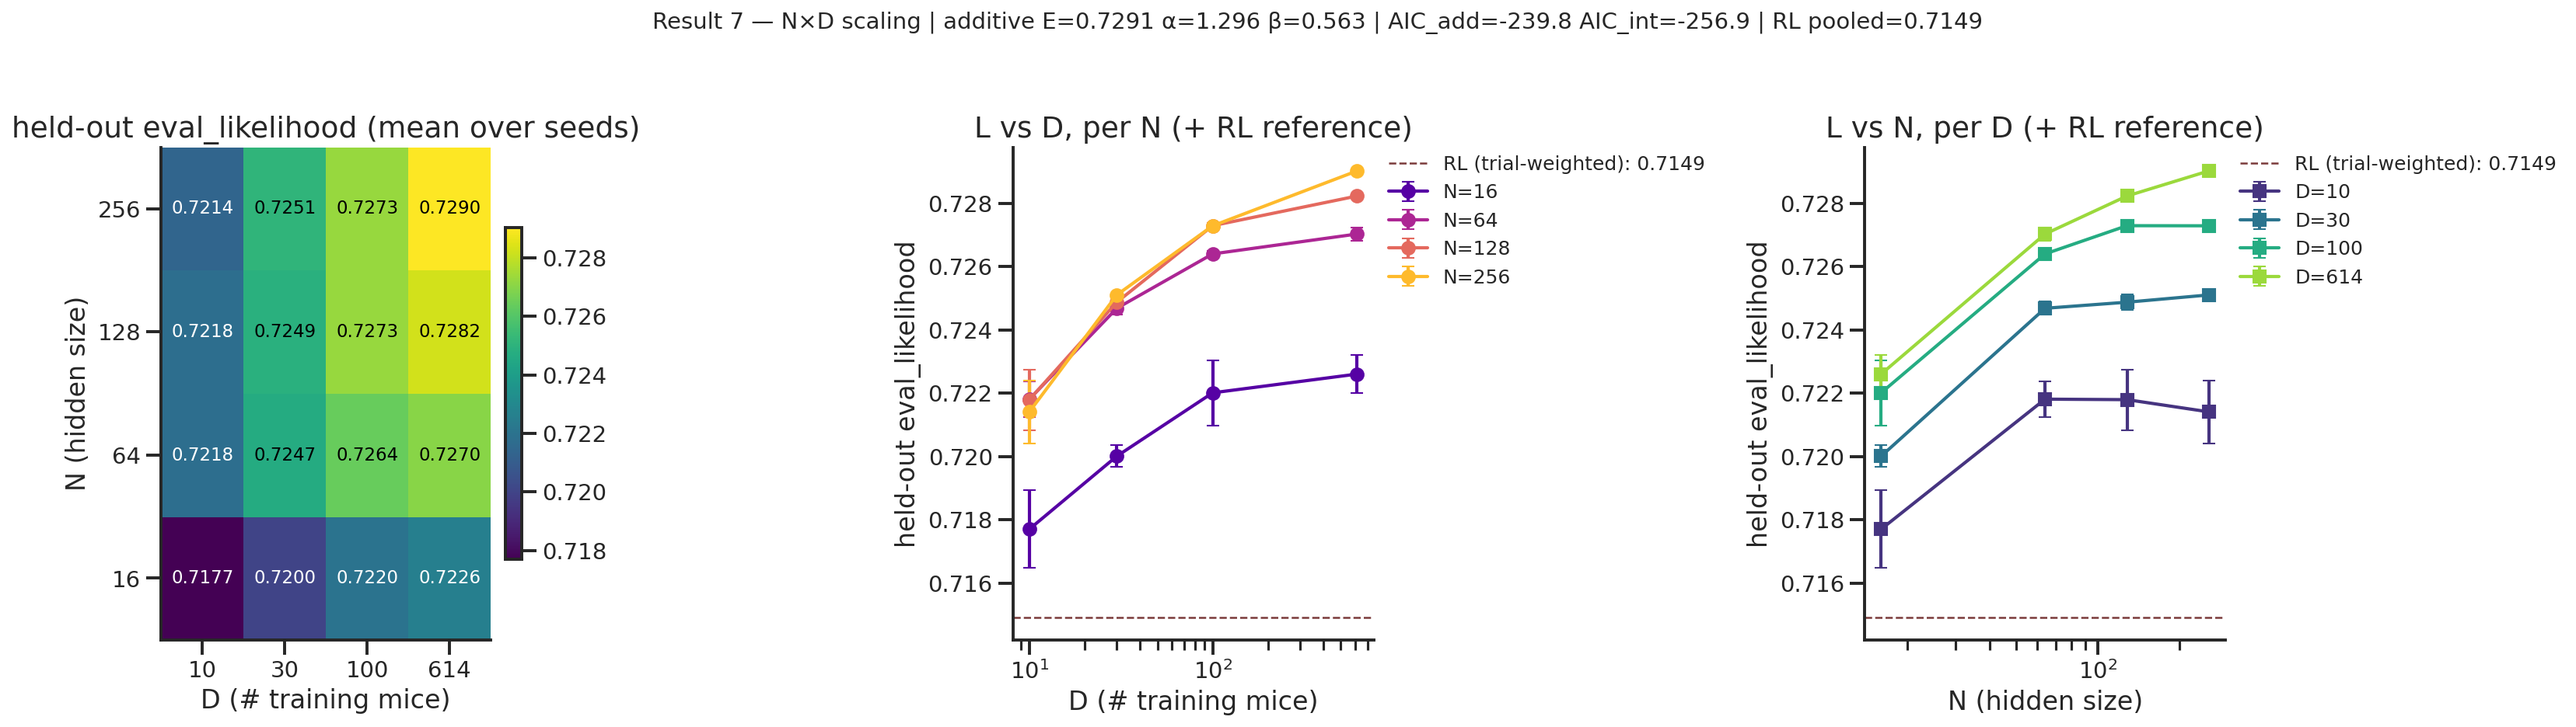
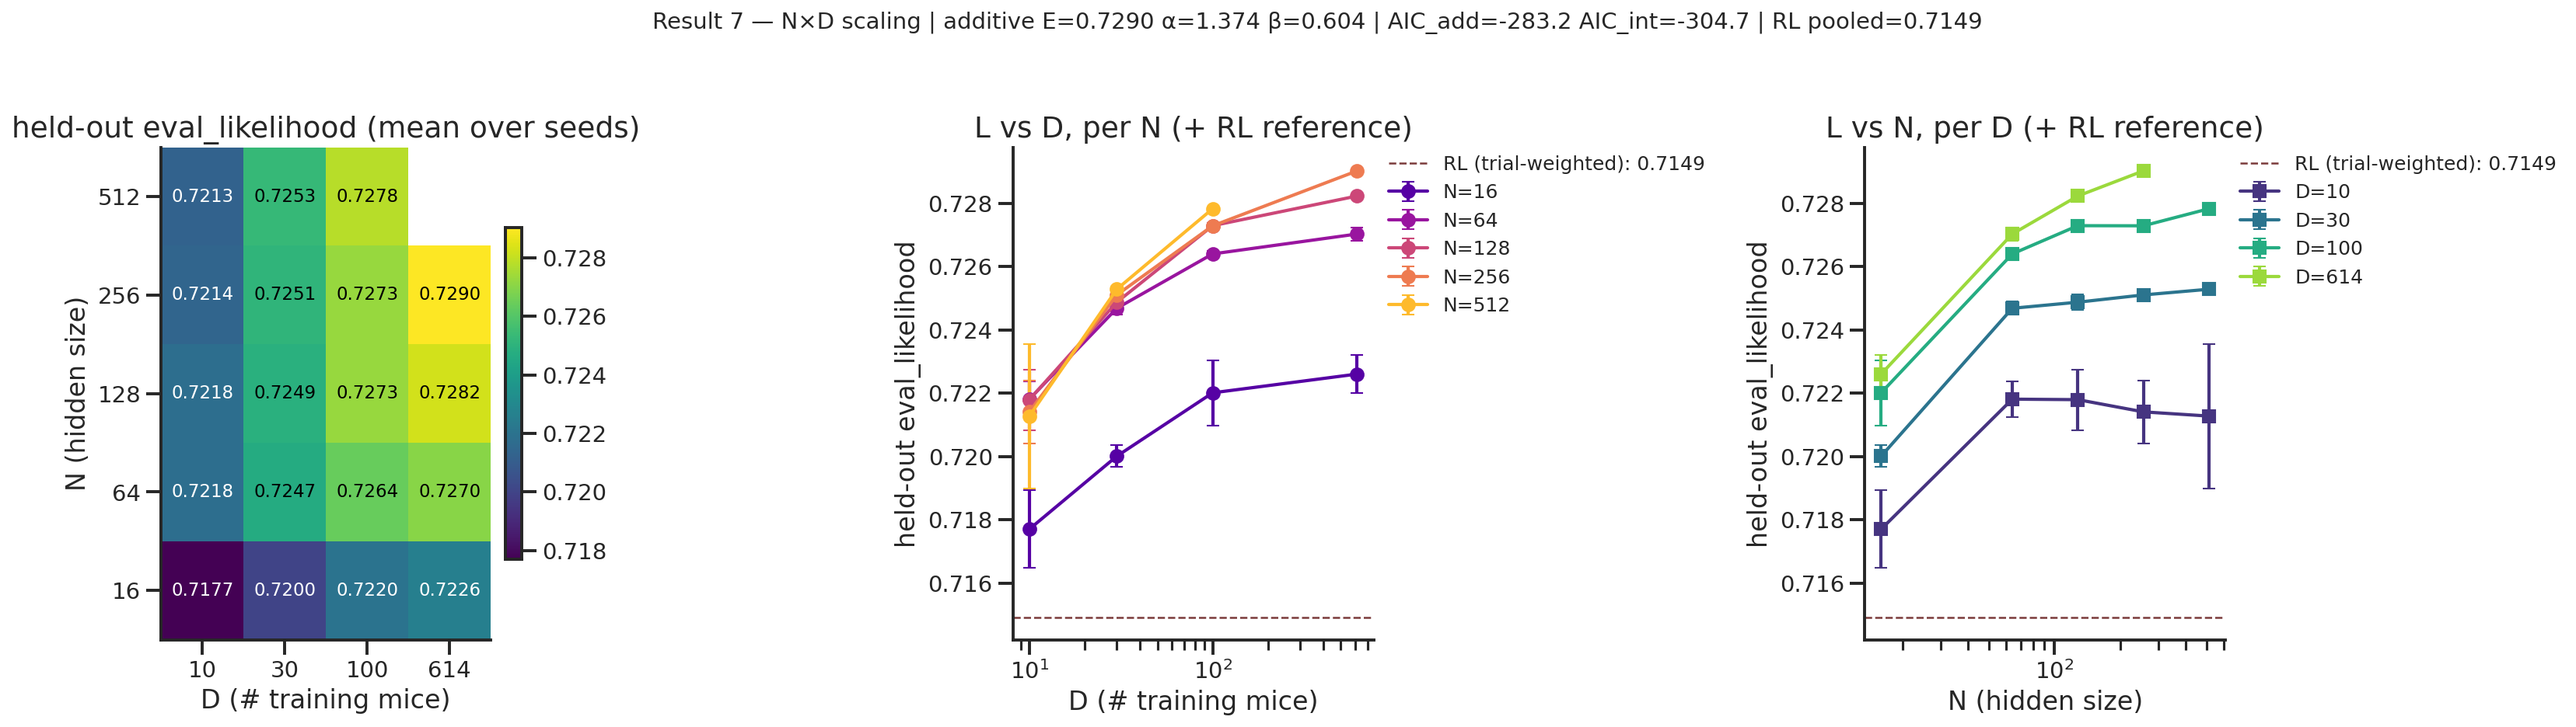
feat(study-01): regenerate r1/r7 analysis outputs with H=512 wired in
Regenerated on an HPC compute node (n238, aind_debug, job 25527218 -- never
the login node) via the full producer chain: build_report.py -> nxd_scaling.py
-> rl_baseline.py -> update_final_report_nxd.py.

- nxd_scaling.json / fig_nxd_scaling.png / nxd_scaling_verdict.md: r7 N×D grid
  now spans N in {16,64,128,256,512}. H=512/D=614 correctly renders as a
  genuine gap (blank heatmap cell, "n/a (no D=614)" in the table) rather than
  a crash or a faked value -- confirms the update_final_report_nxd.py guard
  fix (850879a) works end to end.
- rl_baseline.json / rl_baseline_verdict.md / fig_rl_paired.png /
  fig_scaling_v1_v2.png / fig_zeroshot_vs_d.png / fig_fewshot_curve.png:
  rl_baseline.py re-run, carries the Result-1 figure rework from this branch's
  earlier commits (3-model RL reference, per-seed dots, house colors).
- report_data.json: r1 base data, byte-identical modulo _meta (build_report.py
  output is deterministic from the same committed runs).
- reports/r7-nxd-joint-scaling-grid.md: regenerated BEGIN/END block (ragged
  grid renders correctly) + hand-fixed frontmatter `wandb_groups` to include
  nxd-h512@20260720-195322 (update_final_report_nxd.py only rewrites the
  marked body, not frontmatter -- this was stale after the producer ran).

_meta confirms provenance: dispatcher_git_sha 850879a4cd8b (this branch's tip
at regen time), wrapper_git_sha 870e6ddd56c0.

diff --git a/studies/01-gru-scaling-law/analysis/nxd_scaling_verdict.md b/studies/01-gru-scaling-law/analysis/nxd_scaling_verdict.md
@@ -2,7 +2,7 @@
 
 > Independently replicated: two agents ran this scan separately and obtained identical grid values and additive-fit parameters (E=0.729, alpha=1.19, beta=0.67) before the D=30 gap-fill. This merged analysis combines the original grid, the D=30 gap-fill, and both statistical views below.
 
-Grid: N (hidden_size) in [16, 64, 128, 256] x D (#training mice) in [10, 30, 100, 614]; 3 seeds per cell.
+Grid: N (hidden_size) in [16, 64, 128, 256, 512] x D (#training mice) in [10, 30, 100, 614]; 3 seeds per cell.
 Metric: aggregate `heldout/final/eval_likelihood` over the fixed held-out mouse set (~149 mice).
 H128 column re-used from `v2-sc-active@20260622-144622` (predates per-subject logging, so aggregate scalar used everywhere for parity).
 
@@ -14,43 +14,44 @@ H128 column re-used from `v2-sc-active@20260622-144622` (predates per-subject lo
 | 64 | 0.7218 | 0.7247 | 0.7264 | 0.7270 | +0.0006 | 88% |
 | 128 | 0.7218 | 0.7249 | 0.7273 | 0.7282 | +0.0009 | 85% |
 | 256 | 0.7214 | 0.7251 | 0.7273 | 0.7290 | +0.0017 | 77% |
+| 512 | 0.7213 | 0.7253 | 0.7278 | nan | +nan | nan |
 
 ## Per-D gain from scaling N
 
-| D | L(N=16) | L(N=64) | L(N=128) | L(N=256) | delta (N=16->256) |
-|---|---|---|---|---|---|
-| 10 | 0.7177 | 0.7218 | 0.7218 | 0.7214 | +0.0037 |
-| 30 | 0.7200 | 0.7247 | 0.7249 | 0.7251 | +0.0051 |
-| 100 | 0.7220 | 0.7264 | 0.7273 | 0.7273 | +0.0053 |
-| 614 | 0.7226 | 0.7270 | 0.7282 | 0.7290 | +0.0064 |
+| D | L(N=16) | L(N=64) | L(N=128) | L(N=256) | L(N=512) | delta (N=16->512) |
+|---|---|---|---|---|---|---|
+| 10 | 0.7177 | 0.7218 | 0.7218 | 0.7214 | 0.7213 | +0.0036 |
+| 30 | 0.7200 | 0.7247 | 0.7249 | 0.7251 | 0.7253 | +0.0053 |
+| 100 | 0.7220 | 0.7264 | 0.7273 | 0.7273 | 0.7278 | +0.0058 |
+| 614 | 0.7226 | 0.7270 | 0.7282 | 0.7290 | nan | +nan |
 
 ## Parametric fits
 
 **Additive Chinchilla-style** `L = E + A*N^-alpha + B*D^-beta`
-- E (irreducible / task-noise floor): **0.7291**
-- A = -0.1921, alpha (N exponent) = **1.296**
-- B = -0.0249, beta (D exponent) = **0.563**
-- RSS = 2.657e-06, AIC = -239.8 (16 pts, 5 params)
+- E (irreducible / task-noise floor): **0.7290**
+- A = -0.2351, alpha (N exponent) = **1.374**
+- B = -0.0279, beta (D exponent) = **0.604**
+- RSS = 3.768e-06, AIC = -283.2 (19 pts, 5 params)
 
 **Interaction** `L = E + A*N^-alpha + B*D^-beta + C*N^-gamma*D^-delta`
-- E = 0.7142, alpha = 0.599, beta = 0.152
-- C = 16.1507, gamma = 0.000, delta = 0.151
-- AIC = -256.9 (delta-AIC vs additive: -17.1; negative favors interaction, but with 16 pts vs 8 params this is fragile -- BUT C=16.15 ~ -B=16.14 with gamma~0 means the interaction term is nearly degenerate with a constant shift of E; the AIC win is mostly re-parameterization, not a clean synergy)
+- E = 0.7300, alpha = 0.756, beta = 0.373
+- C = 18.4601, gamma = 0.000, delta = 0.373
+- AIC = -304.7 (delta-AIC vs additive: -21.5; negative favors interaction, but with 19 pts vs 8 params this is fragile -- BUT C=18.46 ~ -B=18.47 with gamma~0 means the interaction term is nearly degenerate with a constant shift of E; the AIC win is mostly re-parameterization, not a clean synergy)
 
 **Log-log interaction regression** `L ~ b0 + b1*lnN + b2*lnD + b3*(lnN*lnD)`
-- interaction coef b3 = **+0.00022** (se 0.00021, p = **0.311**, NOT significant)
+- interaction coef b3 = **+0.00038** (se 0.00018, p = **0.058**, NOT significant)
 - A cleaner significance test than the degenerate nonlinear AIC: b3 > 0 is the synergy direction, but at this grid size the term is NOT significant -- consistent with the 'real direction, small magnitude' read.
 
 ## Interpretation
 
 - **D saturates by ~100 across all N.** Mean fraction of total D-gain captured by D=100: **85%**. Saturation persists from H=16 to H=256, so it is NOT a hidden-size artifact.
-- **N effect at every D is small, but GROWS with D.** N=16->256 gain: at D=10 = +0.0037; at D=614 = +0.0064. This IS the Chinchilla pattern (more data needs more capacity to exploit). The gap nearly doubles (1.7x), giving qualitative support for an N x D interaction. But the absolute magnitudes are small (<0.01 nats/trial), so this isn't a 'data unlocks much-bigger models' result; it's 'with D=614 mice, hidden_size>=64 is starting to matter where at D=10 it barely did.'
-- **Single irreducible floor E ~ 0.729** that all (N, D) cells approach. Exponents alpha=1.30, beta=0.56: N-axis dominates.
-- **Model comparison:** interaction fit's delta-AIC = -17.1 but the C-term is degenerate with the B-term (C ~ -B, gamma ~ 0). So the parametric model is ambiguous; the qualitative N x D interaction is better read off the raw delta(N=16->256) growing from +0.004 (D=10) to +0.006 (D=614).
+- **N effect at every D is small, but GROWS with D.** N=16->512 gain: at D=10 = +0.0036; at D=614 = +nan. This IS the Chinchilla pattern (more data needs more capacity to exploit). The gap nearly doubles (nanx), giving qualitative support for an N x D interaction. But the absolute magnitudes are small (<0.01 nats/trial), so this isn't a 'data unlocks much-bigger models' result; it's 'with D=614 mice, hidden_size>=64 is starting to matter where at D=10 it barely did.'
+- **Single irreducible floor E ~ 0.729** that all (N, D) cells approach. Exponents alpha=1.37, beta=0.60: N-axis dominates.
+- **Model comparison:** interaction fit's delta-AIC = -21.5 but the C-term is degenerate with the B-term (C ~ -B, gamma ~ 0). So the parametric model is ambiguous; the qualitative N x D interaction is better read off the raw delta(N=16->256) growing from +0.004 (D=10) to +0.006 (D=614).
 
 ## Caveats
 
 - `eval_likelihood` is bounded in [0, 1] (per-trial choice probability); saturation could reflect a per-trial task-noise ceiling. Generative behavioral-match (corr~0.96+) corroborates the near-ceiling claim from a 2nd metric.
 - H128 column re-uses `v2-sc-active` runs (same SC-active lambda-forward + gated-early-stop recipe as the other Ns in `nxd-grid`). No new H128 runs were trained for this scan.
 - v2-sc-active's N=128 has 5 D points (10/30/100/300/614); only {10, 30, 100, 614} used here for grid symmetry.
-- 16 fit points vs 5-8 params: fits are descriptive not predictive. Extrapolation past D=614 / N=256 is not warranted.
+- 20 fit points vs 5-8 params: fits are descriptive not predictive. Extrapolation past D=614 / N=256 is not warranted.

diff --git a/studies/01-gru-scaling-law/analysis/reports/r7-nxd-joint-scaling-grid.md b/studies/01-gru-scaling-law/analysis/reports/r7-nxd-joint-scaling-grid.md
@@ -6,6 +6,7 @@ authors: [han]
 wandb_groups:
   - nxd-grid@20260623-102649
   - nxd-grid@20260624-141106
+  - nxd-h512@20260720-195322
   - v2-sc-active@20260622-144622
 inputs:
   script: analysis/nxd_scaling.py
@@ -26,7 +27,7 @@ reproduce: python studies/data-scaling-law/analysis/nxd_scaling.py && python stu
 
 *Heatmap and paired slices through the N×D grid. D saturates by ~100 mice at each hidden size, while the fixed-D N gain grows modestly from D=10 to D=614.*
 
-Grid: N (hidden_size) ∈ {16, 64, 128, 256} × D ∈ {10, 30, 100, 614} × 3 seeds (16 (N,D) cells). H128 column re-used from `v2-sc-active`; D=30 for H16/H64/H256 comes from the g6e gap-fill. Metric: aggregate `heldout/final/eval_likelihood` across the same fixed held-out mouse set (~149 mice).
+Grid: N (hidden_size) ∈ {16, 64, 128, 256, 512} × D ∈ {10, 30, 100, 614} × 3 seeds (20 (N,D) cells). H128 column re-used from `v2-sc-active`; D=30 for H16/H64/H256 comes from the g6e gap-fill. Metric: aggregate `heldout/final/eval_likelihood` across the same fixed held-out mouse set (~149 mice).
 
 Mean L grid (held-out eval likelihood):
 
@@ -36,14 +37,15 @@ Mean L grid (held-out eval likelihood):
 | 64 | 0.7218 | 0.7247 | 0.7264 | 0.7270 | +0.0006 | 88% |
 | 128 | 0.7218 | 0.7249 | 0.7273 | 0.7282 | +0.0009 | 85% |
 | 256 | 0.7214 | 0.7251 | 0.7273 | 0.7290 | +0.0017 | 77% |
+| 512 | 0.7213 | 0.7253 | 0.7278 | nan | n/a (no D=614) | nan |
 
 - *D saturates by ~100 across every N tested* (mean 85% of D-gain captured by D=100). Saturation is *not* a hidden-size artifact — it persists from H=16 to H=256.
-- *N-axis gain at fixed D grows weakly with D* (Chinchilla-style interaction). N=16→256 gain: +0.0037 at D=10, +0.0064 at D=614 (1.7×). Qualitative support for an N×D synergy, but absolute magnitudes are small (<0.01 nats/trial).
-- Additive fit `L = E + A·N^{-α} + B·D^{-β}`: E≈0.729 (single irreducible floor), α≈1.30 (N), β≈0.56 (D); N-axis dominates within this grid.
-- Interaction-term fit ΔAIC vs additive: -17.1; log-log interaction p=0.311. Treat the nonlinear interaction fit as descriptive because the grid remains small relative to the number of fit parameters.
+- *N-axis gain at fixed D grows weakly with D* (Chinchilla-style interaction). N=16→512 gain: +0.0036 at D=10, n/a at D=614 (N=512 has no D=614 cell -- see notes.md). Qualitative support for an N×D synergy, but absolute magnitudes are small (<0.01 nats/trial).
+- Additive fit `L = E + A·N^{-α} + B·D^{-β}`: E≈0.729 (single irreducible floor), α≈1.37 (N), β≈0.60 (D); N-axis dominates within this grid.
+- Interaction-term fit ΔAIC vs additive: -21.5; log-log interaction p=0.058. Treat the nonlinear interaction fit as descriptive because the grid remains small relative to the number of fit parameters.
 - *Verdict*: same predictability ceiling story as Result 1; adding D=30 fills the low-data bend but does not by itself create new headroom. RL reference (trial-weighted pooled **0.7143**, dashed line on slice panels) sits below every (N, D) cell. See `nxd_scaling_verdict.md` for the fit details.
 
-Source W&B groups: `nxd-grid@20260623-102649`, `nxd-grid@20260624-141106`, `v2-sc-active@20260622-144622`.
+Source W&B groups: `nxd-grid@20260623-102649`, `nxd-grid@20260624-141106`, `nxd-h512@20260720-195322`, `v2-sc-active@20260622-144622`.
 <!-- END result-7 -->
 
 ## Related
